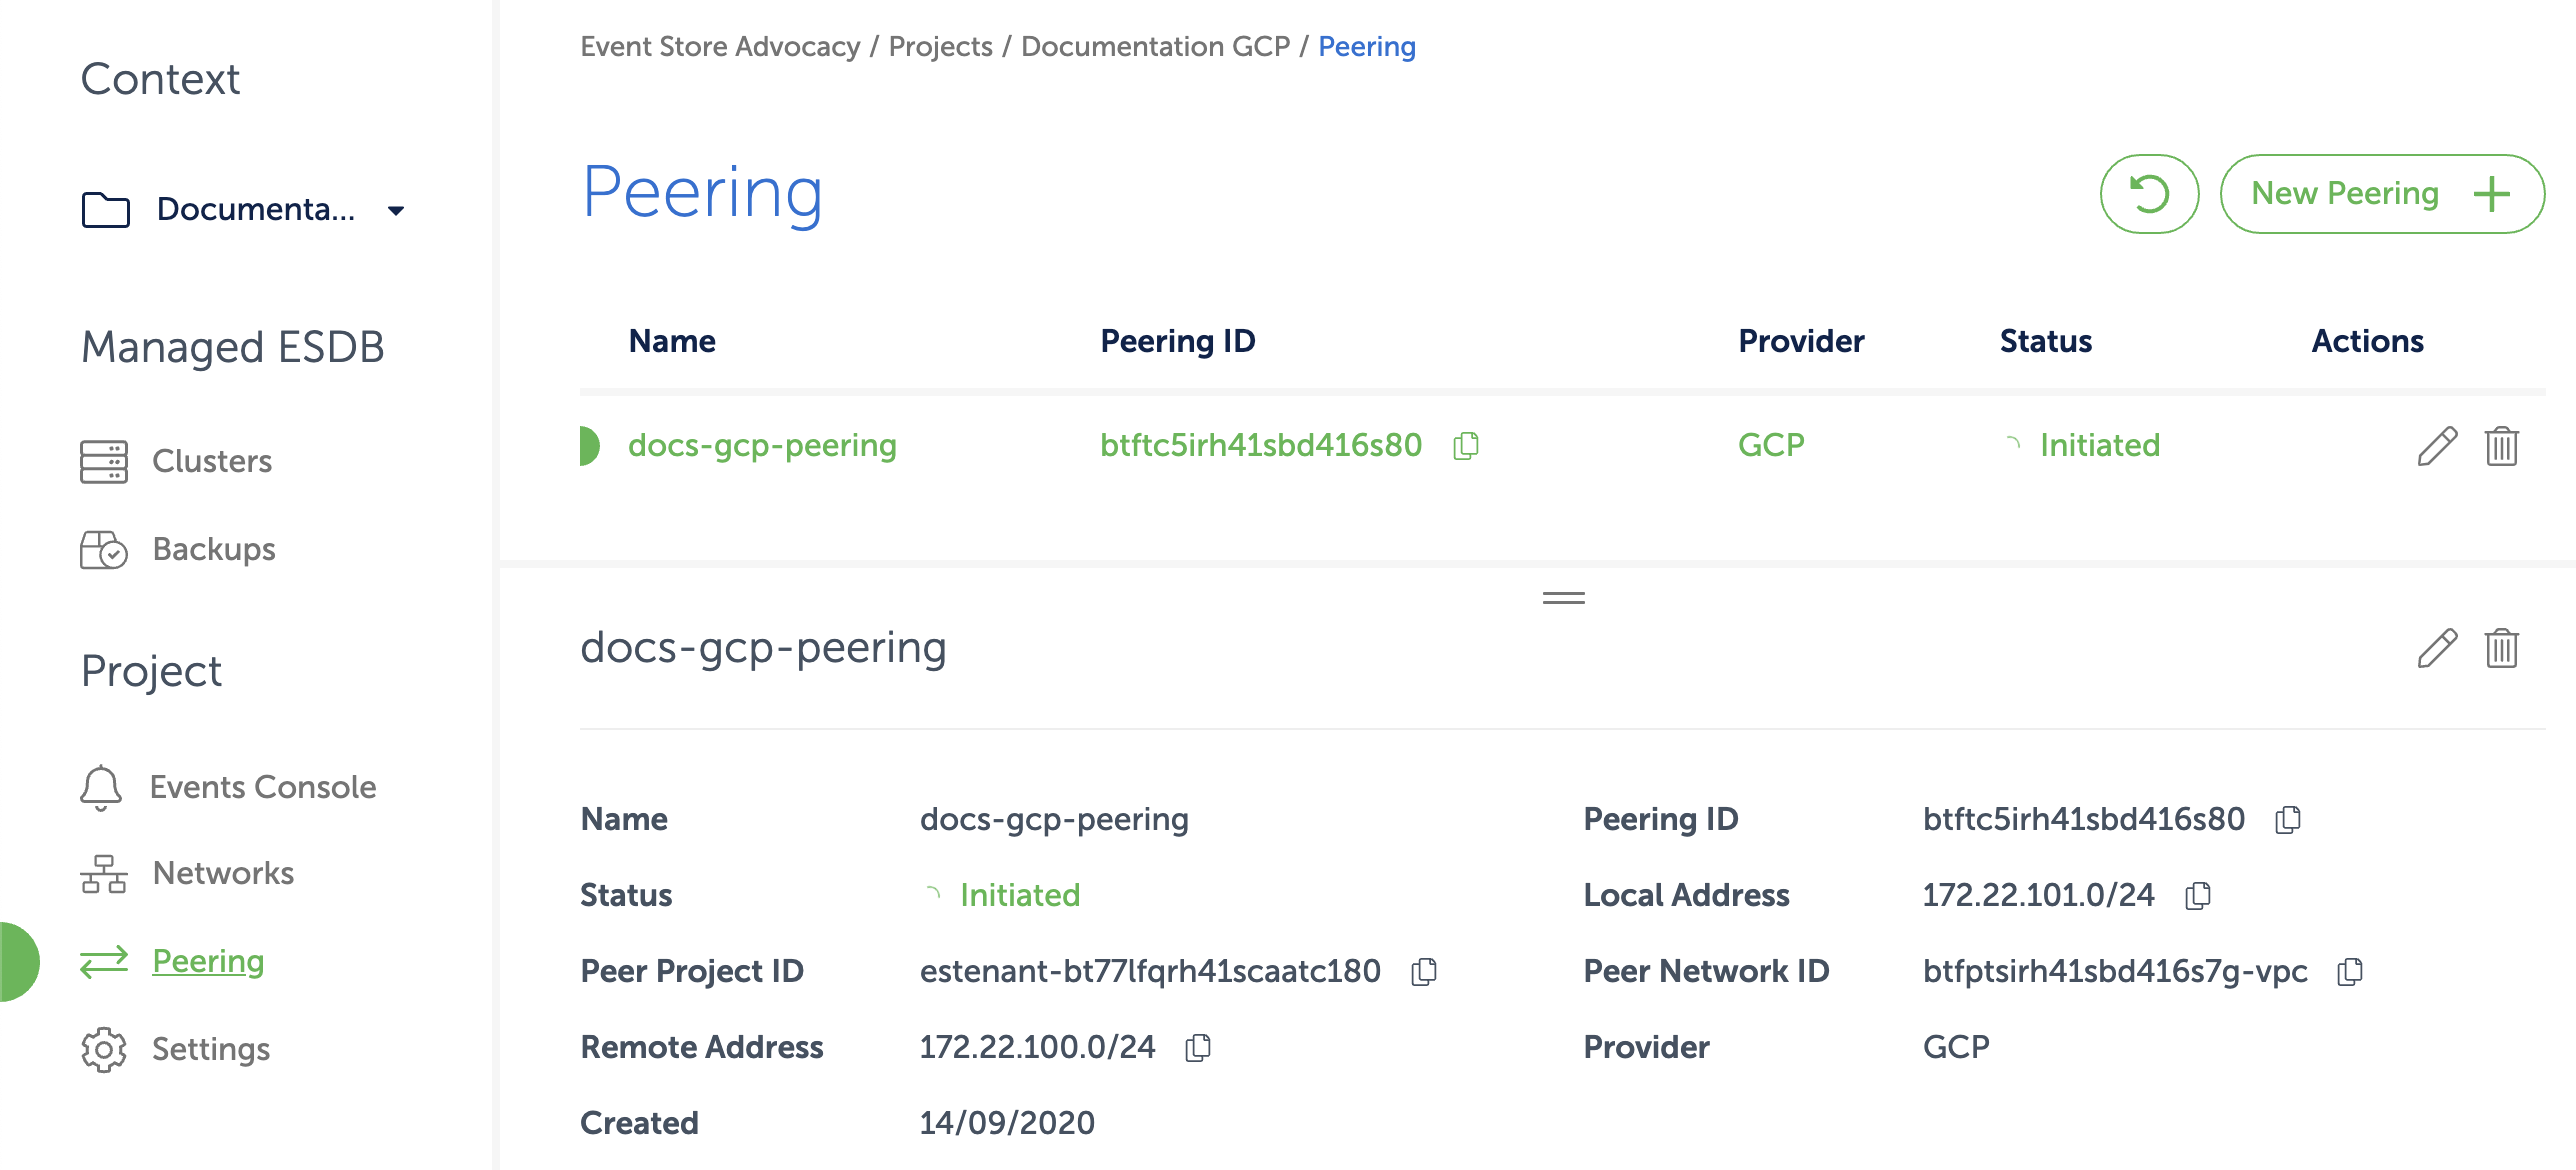
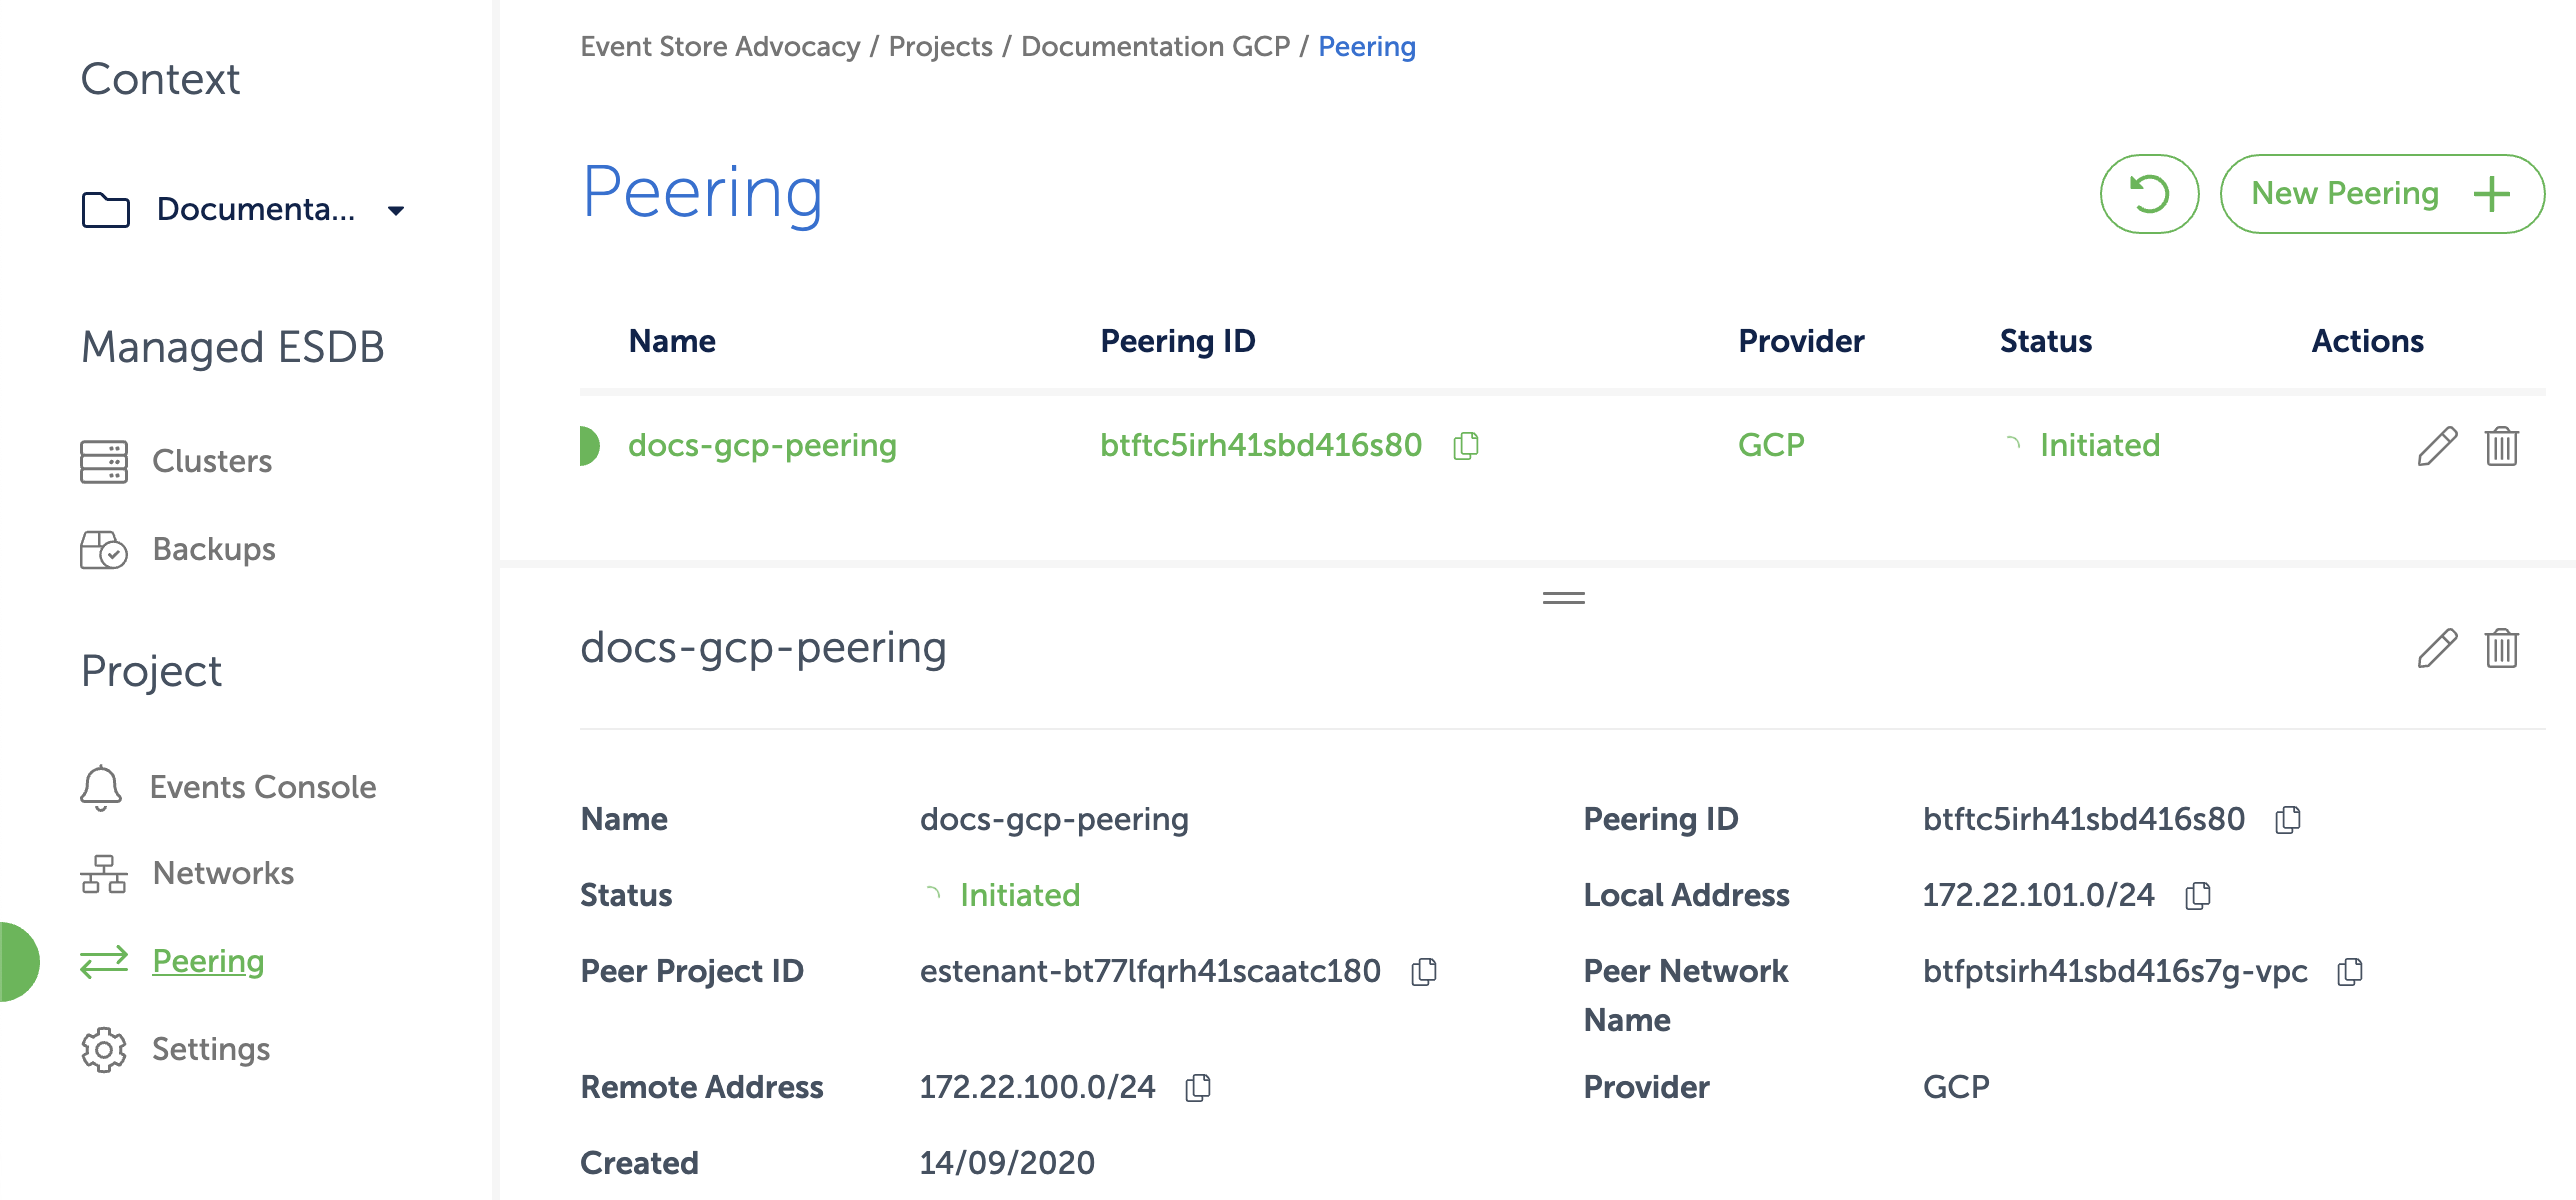
Update `Peer Network ID` to `VPC Network Name` in Event Store Cloud GCP Peering Docs
Fixes #241

diff --git a/docs/cloud/provision/gcp/README.md b/docs/cloud/provision/gcp/README.md
@@ -123,7 +123,7 @@ When the peering is initiated, get back to Google Cloud console and navigate to 
 | EventStoreDB Cloud | GCP connection peering |
 | :---------------- | :--------------------- |
 | Peer Project ID | Project ID |
-| Peer Network ID | VPC network name |
+| Peer Network Name | VPC network name |
 
 **Important**: expand the `Exchange custom routes` section and enable both `Import` and `Export` options for custom routes. It will instruct GCP to create routes automatically.
 
